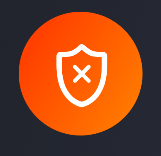
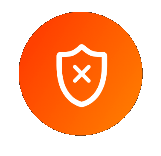
bug fixed related to ui antivirus

diff --git a/vtr-ui/src/app/components/pages/page-security-antivirus/page-security-antivirus.component.html b/vtr-ui/src/app/components/pages/page-security-antivirus/page-security-antivirus.component.html
@@ -28,10 +28,6 @@
 											<vtr-ui-button [label]="'LEARN MORE ABOUT MCAFEE'"></vtr-ui-button>
 										</div>
 									</div>
-									<div class="col-auto px-0">
-										<img class="img-fluid"
-											src="./../../../../assets/images/antivirus/mcafee-top.png" />
-									</div>
 								</div>
 							</div>
 							<div class="subheader mt-60">
@@ -52,8 +48,12 @@
 										<ul class="list-group">
 											<li class="list-group-item">
 												<div class="row align-items-center">
-													<div class="col-auto">
-
+													<div class="col-auto px-3">
+														<div class="bullet-icon-check">
+															<div class="icon-bkg">
+																<fa-icon [icon]="['fas', 'check']"></fa-icon>
+															</div>
+														</div>
 													</div>
 													<div class="col-auto text px-0">
 														VIRUS SCAN
@@ -71,8 +71,12 @@
 
 											<li class="list-group-item">
 												<div class="row align-items-center">
-													<div class="col-auto">
-
+													<div class="col-auto px-3 ">
+														<div class="bullet-icon-check">
+															<div class="icon-bkg">
+																<fa-icon [icon]="['fas', 'check']"></fa-icon>
+															</div>
+														</div>
 													</div>
 													<div class="col-auto text px-0">
 														VIRUS SCAN
@@ -106,8 +110,12 @@
 										<ul class="list-group">
 											<li class="list-group-item">
 												<div class="row align-items-center">
-													<div class="col-auto">
-
+													<div class="col-auto px-3">
+														<div class="bullet-icon-times">
+															<div class="icon-bkg">
+																<fa-icon [icon]="['fas', 'times']"></fa-icon>
+															</div>
+														</div>
 													</div>
 													<div class="col-auto px-0 text">
 														VIRUS SCAN
@@ -125,8 +133,12 @@
 
 											<li class="list-group-item">
 												<div class="row align-items-center">
-													<div class="col-auto">
-
+													<div class="col-auto px-3">
+														<div class="bullet-icon-times">
+															<div class="icon-bkg">
+																<fa-icon [icon]="['fas', 'times']"></fa-icon>
+															</div>
+														</div>
 													</div>
 													<div class="col-auto px-0 text">
 														FIREWALL
@@ -144,7 +156,20 @@
 
 										</ul>
 
-										<div class="row justify-content-end">
+										<div class="row align-items-center">
+											<div class="col-auto mr-auto">
+                                                 <div class="card-with-border p-3">
+													 <span class="text">
+														 License Valid Until
+													 </span>
+													 <span class="date">
+														 10/10/2020
+													 </span>
+													 <span>
+														 <a href="#" class="text">Update Now</a>
+													 </span>
+												 </div>
+											</div>
 											<div class="col-auto px-0 py-5">
 												<vtr-ui-button [label]="'GET MCAFEE'"></vtr-ui-button>
 											</div>

diff --git a/vtr-ui/src/styles.scss b/vtr-ui/src/styles.scss
@@ -108,5 +108,50 @@ button {
 	border-bottom-left-radius: $border_radius !important;
 }
 
+
+
+.bullet-icon-check {
+	.icon-bkg {
+		display: inline-block;
+		border-radius: 50%;
+		height: 3.3rem;
+		width: 3.3rem;
+		border-width: 0.3rem;
+		border-style: solid;
+		text-align: center;
+		background: linear-gradient($gradient_angle, $go 0%, $go_light 100%);
+		border-color: $go_dark;
+		fa-icon {
+			font-size: 1.6rem;
+			line-height: 2.9rem;
+			color: $light;
+		}
+	}
+}
+
+.bullet-icon-times {
+	.icon-bkg {
+		display: inline-block;
+		border-radius: 50%;
+		height: 3.3rem;
+		width: 3.3rem;
+		border-width: 0.3rem;
+		border-style: solid;
+		text-align: center;
+		background: linear-gradient($gradient_angle, $stop 0%, $stop_light 100%);
+		border-color: $stop_dark;
+		fa-icon {
+			font-size: 1.6rem;
+			line-height: 2.9rem;
+			color: $light;
+		}
+	}
+}
+
+.card-with-border {
+	border: 1px solid #ECF0F1;
+	border-radius:$border_radius;
+	background-color: #FFFFFF;
+}
 .vtr-subpage {
 }

diff --git a/vtr-ui/src/app/components/pages/page-security-antivirus/page-security-antivirus.component.scss b/vtr-ui/src/app/components/pages/page-security-antivirus/page-security-antivirus.component.scss
@@ -49,6 +49,16 @@
 				font-size: 1.4rem;
 				line-height: 2.1rem;
 			}
+			.text{
+              font-size:1.5rem;
+				line-height: 2.1rem;
+			}
+			.date {
+				color: $go_dark;
+				font-size: 1.6rem;
+				font-weight: bold;
+				line-height: 3rem;
+			}
 		}
 	}
 
